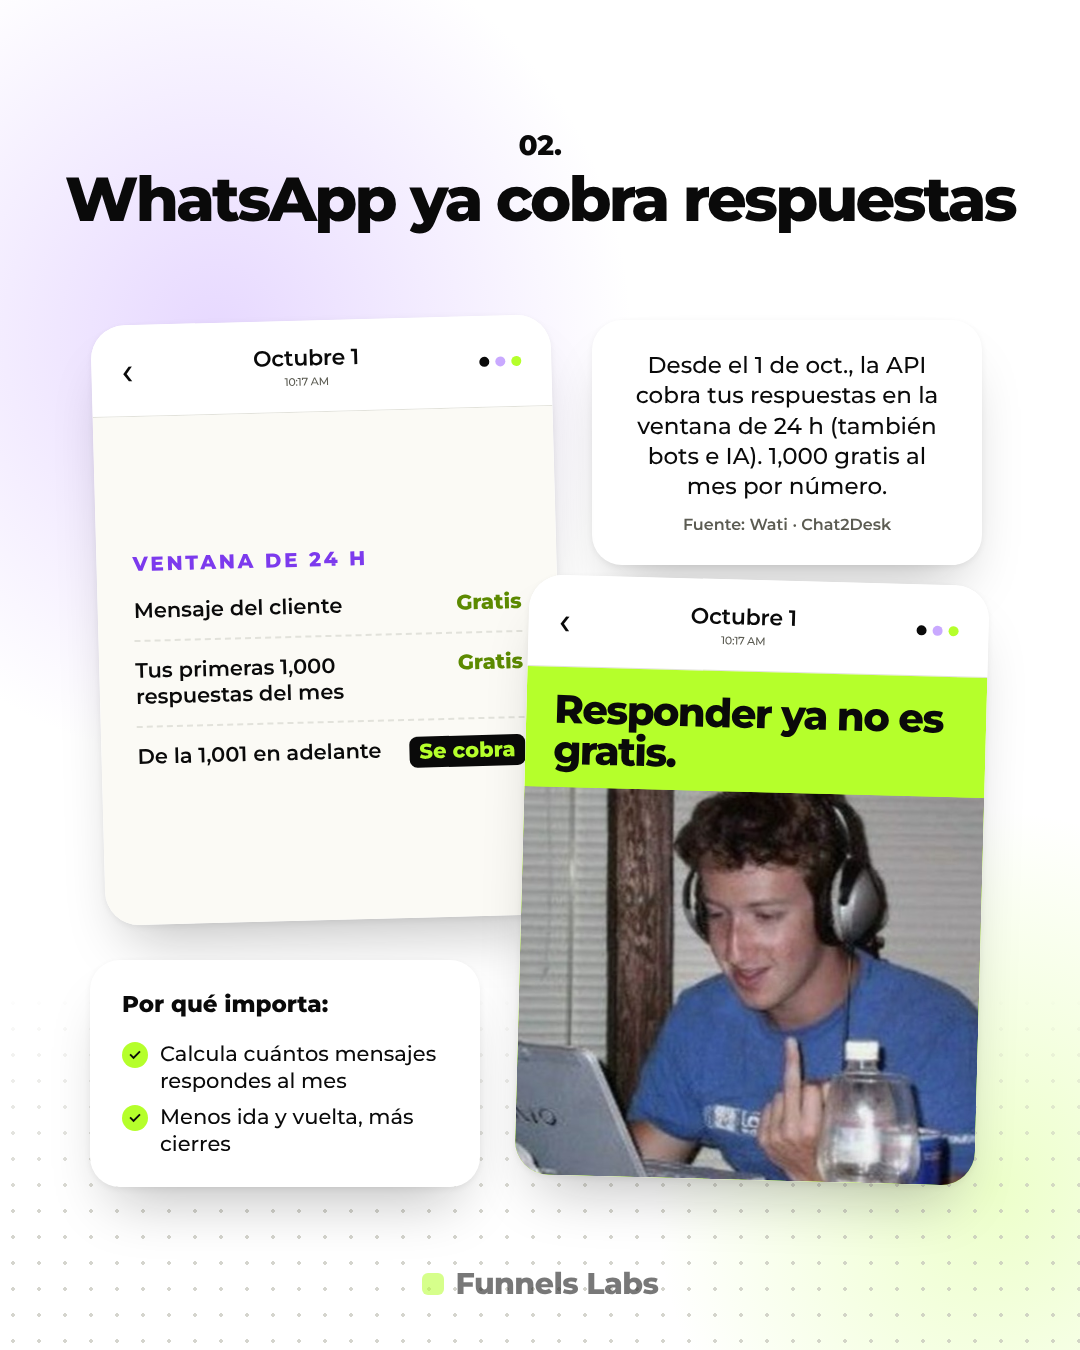
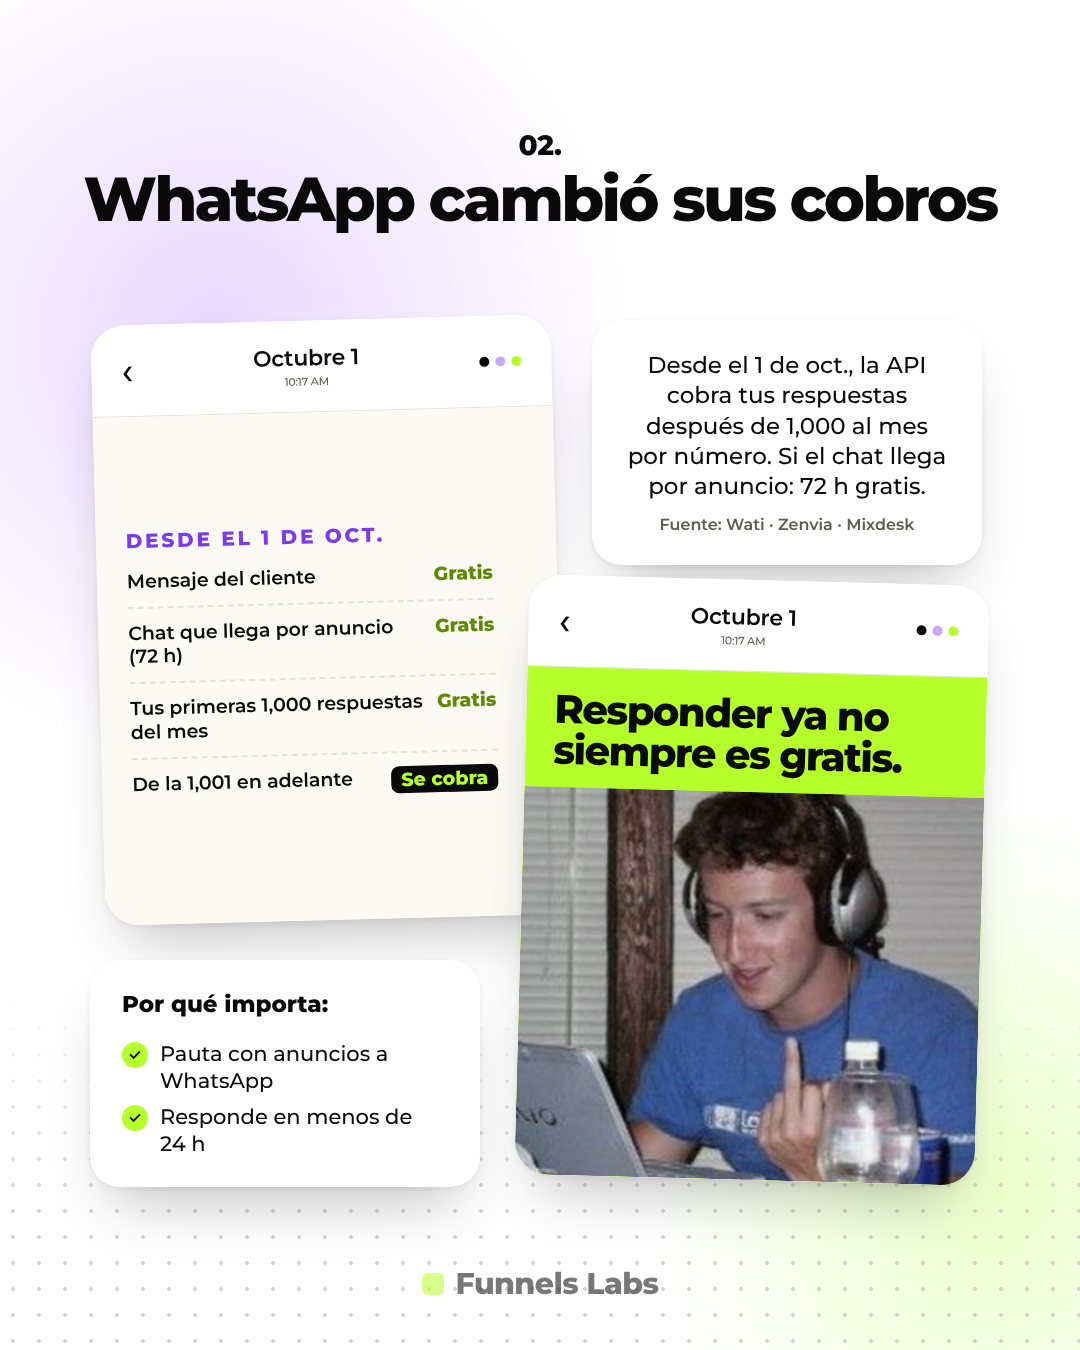
Noticias IA: corrige la noticia de WhatsApp (ventana de 72 h por anuncios)
Claude-Session: https://claude.ai/code/session_018d4LXHkXweDJXxfN5x99dL

diff --git a/carruseles/noticias-ia-semana-oct-8/carrusel.html b/carruseles/noticias-ia-semana-oct-8/carrusel.html
@@ -129,7 +129,7 @@
   .bars i.on { background: var(--lime); }
   .stepper { display: flex; justify-content: space-between; align-items: center; border: 2px solid var(--border); border-radius: 99px; padding: 6px 8px; font-weight: 700; font-size: 20px; }
   .stepper b { width: 38px; height: 38px; border-radius: 99px; background: var(--ink); color: var(--lime); display: flex; align-items: center; justify-content: center; }
-  .row { display: flex; justify-content: space-between; gap: 12px; padding: 16px 0; border-bottom: 2px dashed var(--border); font-size: 21px; font-weight: 600; line-height: 1.25; }
+  .row { display: flex; justify-content: space-between; gap: 12px; padding: 13px 0; border-bottom: 2px dashed var(--border); font-size: 19px; font-weight: 600; line-height: 1.25; }
   .row span:last-child { flex: none; font-weight: 800; }
   .ok { color: var(--lime-dark); } .pay { background: var(--ink); color: var(--lime); padding: 2px 10px; border-radius: 8px; }
   .term { font-family: "Montserrat", monospace; font-size: 21px; line-height: 1.7; font-weight: 600; }
@@ -163,15 +163,16 @@
 </section>
 <section class="slide glow-lilac B">
   <div class="num">02.</div>
-  <div class="title">WhatsApp ya cobra respuestas</div>
-  <div class="card note" style="font-size:23px">Desde el 1 de oct., la API cobra tus respuestas en la ventana de 24 h (también bots e IA). 1,000 gratis al mes por número.<span class="src">Fuente: Wati · Chat2Desk</span></div>
-  <div class="phone p1"><header><span class="back">‹</span><span class="date">Octubre 1<small>10:17 AM</small></span><span class="dots"><b></b><b></b><b></b></span></header><div class="screen s-paper" style="justify-content:center"><div class="k" style="color:var(--violet);margin-bottom:6px">Ventana de 24 h</div>
+  <div class="title">WhatsApp cambió sus cobros</div>
+  <div class="card note" style="font-size:23px">Desde el 1 de oct., la API cobra tus respuestas después de 1,000 al mes por número. Si el chat llega por anuncio: 72 h gratis.<span class="src">Fuente: Wati · Zenvia · Mixdesk</span></div>
+  <div class="phone p1"><header><span class="back">‹</span><span class="date">Octubre 1<small>10:17 AM</small></span><span class="dots"><b></b><b></b><b></b></span></header><div class="screen s-paper" style="justify-content:center;padding:30px 64px 30px 30px"><div class="k" style="color:var(--violet);margin-bottom:4px">Desde el 1 de oct.</div>
    <div class="row"><span>Mensaje del cliente</span><span class="ok">Gratis</span></div>
+   <div class="row"><span>Chat que llega por anuncio (72 h)</span><span class="ok">Gratis</span></div>
    <div class="row"><span>Tus primeras 1,000 respuestas del mes</span><span class="ok">Gratis</span></div>
    <div class="row" style="border:0"><span>De la 1,001 en adelante</span><span class="pay">Se cobra</span></div></div></div>
-  <div class="phone p2"><header><span class="back">‹</span><span class="date">Octubre 1<small>10:17 AM</small></span><span class="dots"><b></b><b></b><b></b></span></header><div class="screen s-lime photo"><div class="band" style="padding:22px 28px 16px"><div class="big" style="font-size:40px">Responder ya no es gratis.</div></div>
+  <div class="phone p2"><header><span class="back">‹</span><span class="date">Octubre 1<small>10:17 AM</small></span><span class="dots"><b></b><b></b><b></b></span></header><div class="screen s-lime photo"><div class="band" style="padding:22px 28px 16px"><div class="big" style="font-size:40px">Responder ya no siempre es gratis.</div></div>
    <div class="pic"><img src="img/02.jpg" style="object-position:center 45%"></div></div></div>
-  <div class="card why"><h4>Por qué importa:</h4><ul><li>Calcula cuántos mensajes respondes al mes</li><li>Menos ida y vuelta, más cierres</li></ul></div>
+  <div class="card why"><h4>Por qué importa:</h4><ul><li>Pauta con anuncios a WhatsApp</li><li>Responde en menos de 24&nbsp;h</li></ul></div>
   <div class="logo"><i></i>Funnels Labs</div>
 </section>
 <section class="slide glow-lime A">

diff --git a/carruseles/noticias-ia-semana-oct-8/caption.md b/carruseles/noticias-ia-semana-oct-8/caption.md
@@ -1,6 +1,6 @@
 Si tu negocio vive de WhatsApp, esta semana te interesa 👀
 
-Desde octubre, responder por la API de WhatsApp ya tiene costo. Y no es la única noticia que te toca de cerca.
+Desde octubre, responder por la API de WhatsApp tiene costo después de 1,000 mensajes al mes. Lo bueno: si el cliente te escribe desde un anuncio, sigues teniendo 72 horas gratis.
 
 Te lo resumí en 4 slides, sin tecnicismos.
 
